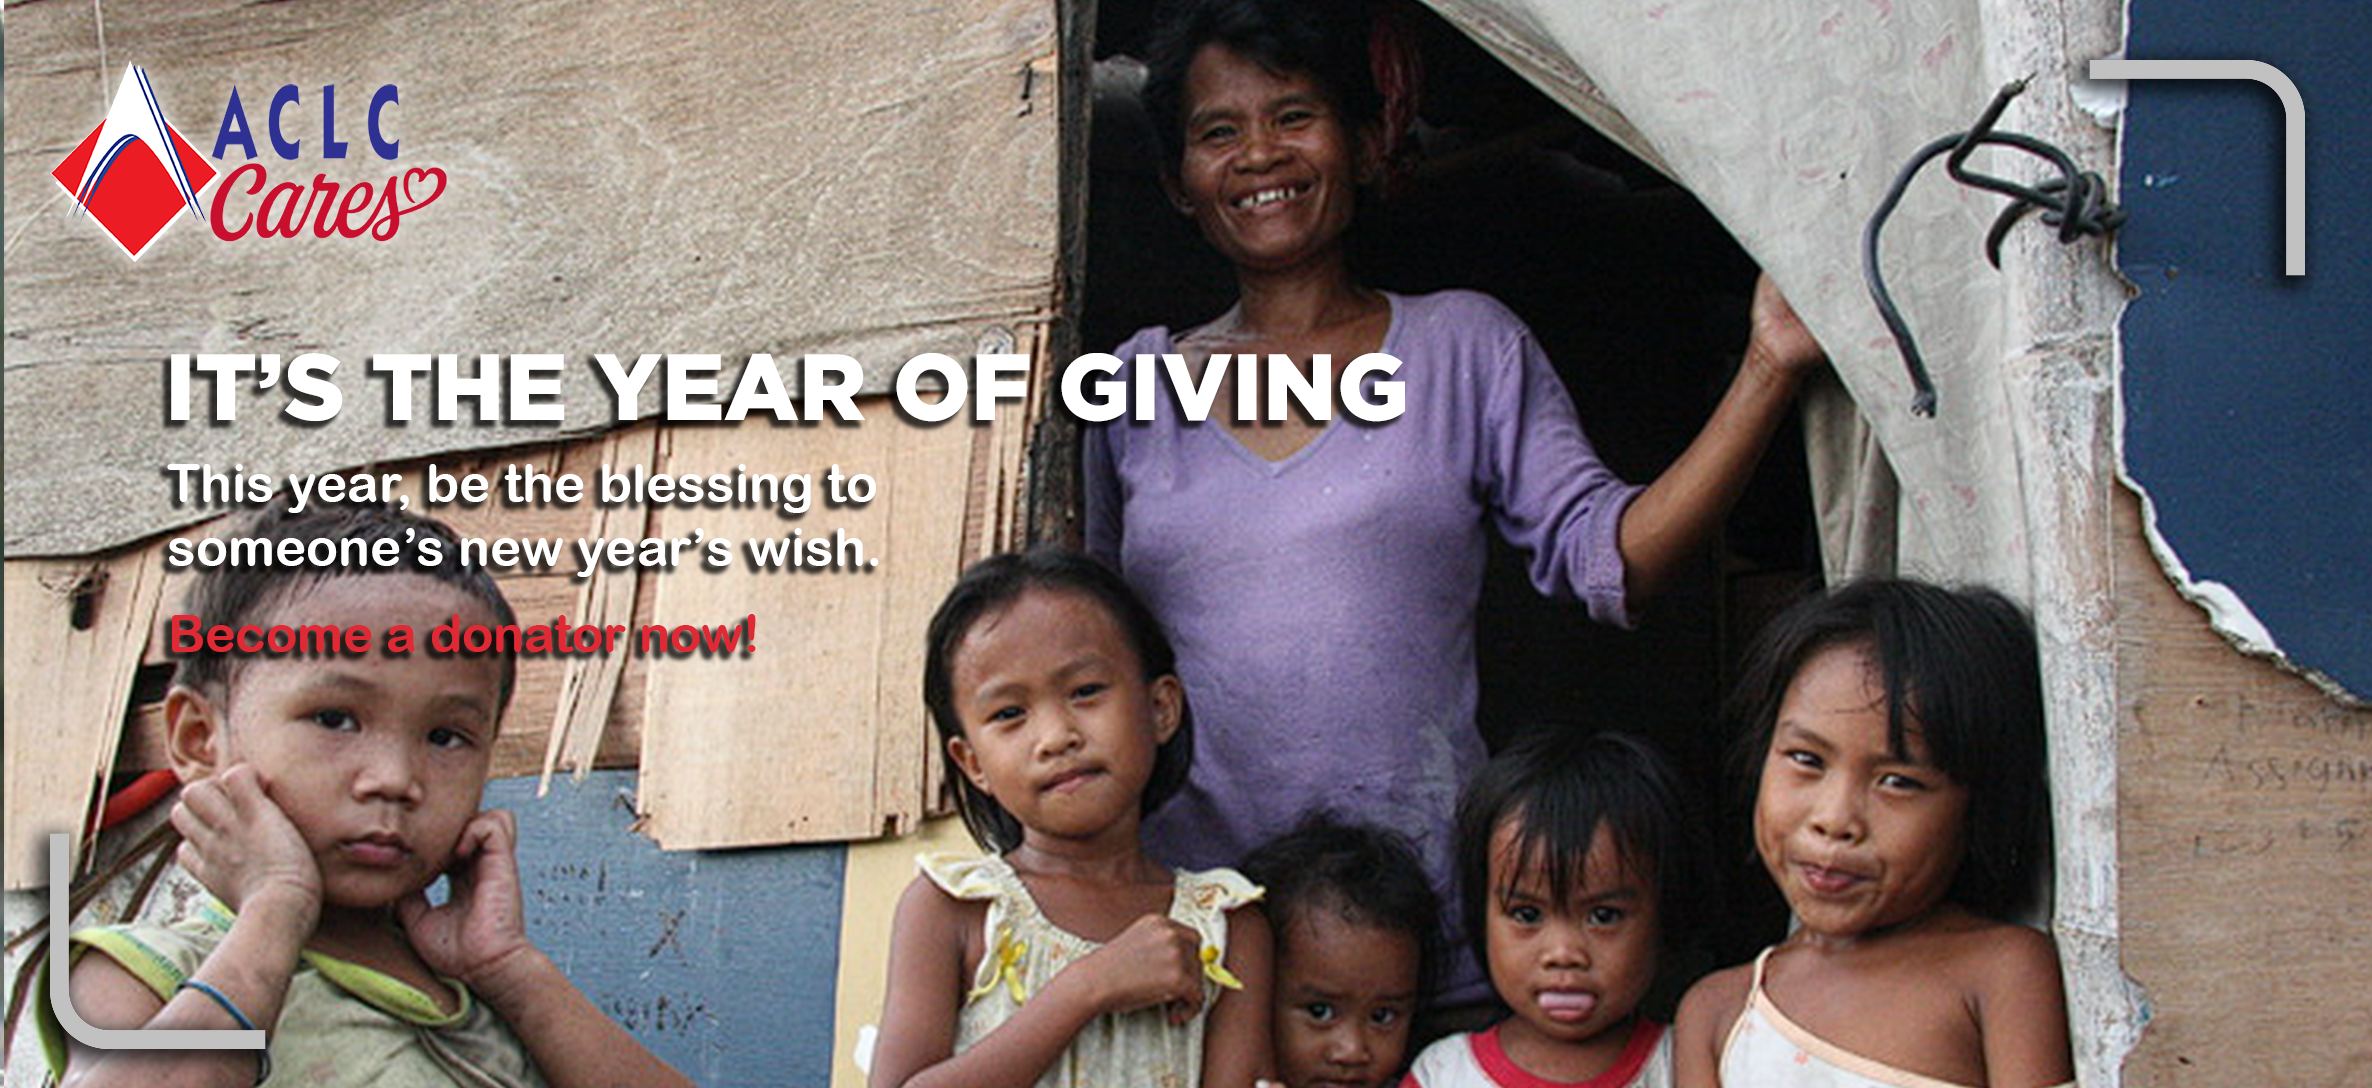
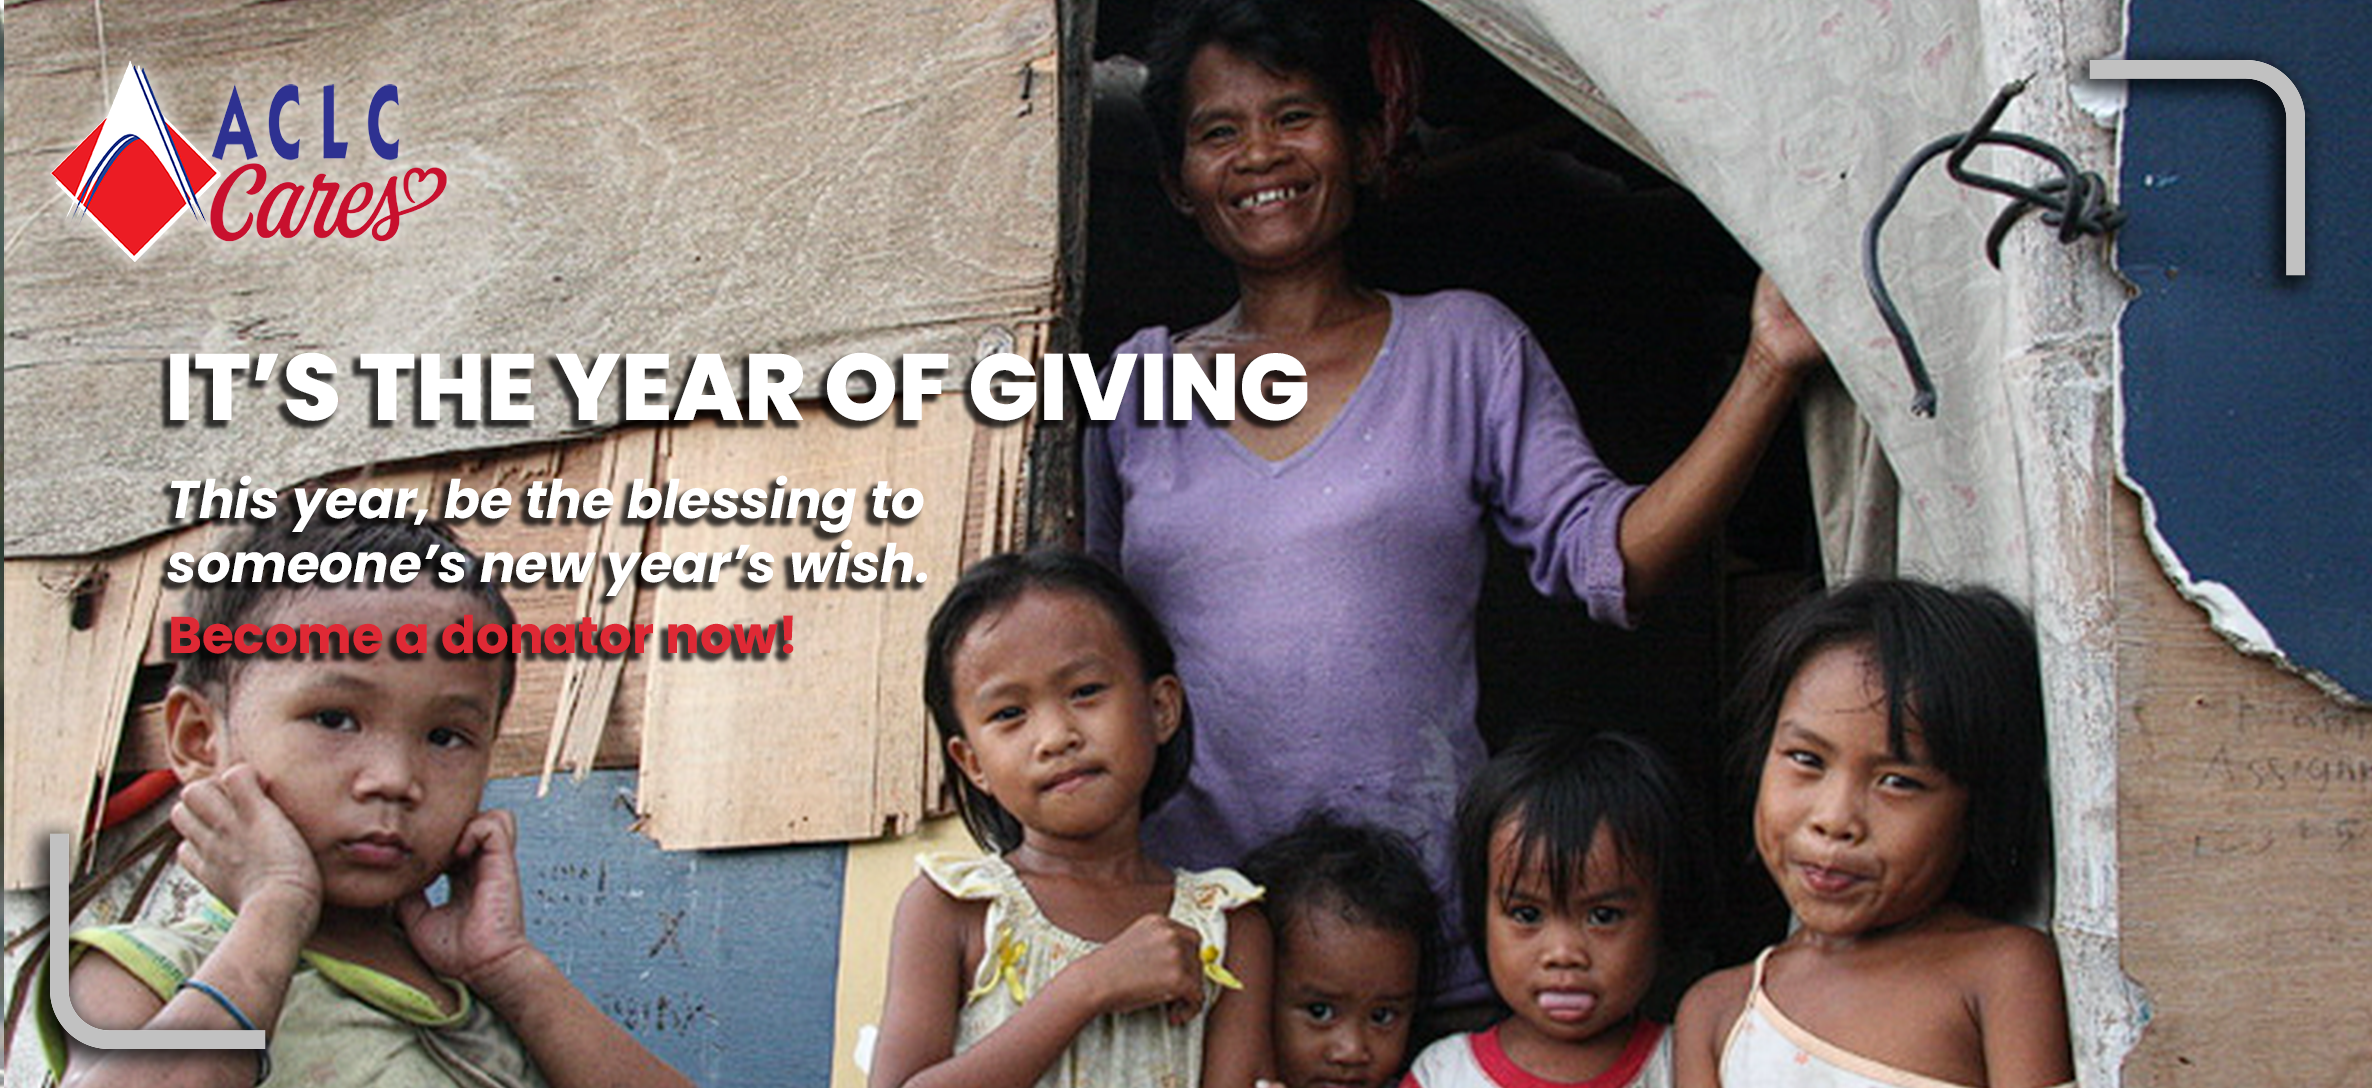
client

Changed region(s): [[0.0624, 0.3125, 0.5927, 0.625]]

diff --git a/client/src/pages/About/About.jsx b/client/src/pages/About/About.jsx
@@ -66,7 +66,7 @@ return (
                     <div className="desc">
                         <h6>Ramel Jay O. Cuña</h6>
                         <p>Project Lead Developer</p>
-                        <p>rameljay15@gmail.com</p>
+                        <p className='teammail-color'><a href="mailto:rameljay15@gmail.com">rameljay15@gmail.com</a></p>
                     </div>
                 </div>
 
@@ -77,7 +77,7 @@ return (
                     <div className="desc">
                         <h6>Andrei Christian N. Zabala</h6>
                         <p>Project Lead Developer</p>
-                        <p>andreichristianzabala@gmail.com</p>
+                        <p className='teammail-color'><a href="mailto:andreichristianzabala@gmail.com">andreichristianzabala@gmail.com</a></p>
                     </div>
                 </div>
 
@@ -88,7 +88,7 @@ return (
                     <div className="desc">
                         <h6>Bjorn Farinelli L. Orgen</h6>
                         <p>Developer</p>
-                        <p>bjornfarinelli@gmail.com</p>
+                        <p className='teammail-color'><a href="mailto:bjornfarinelli@gmail.com">bjornfarinelli@gmail.com</a></p>
                     </div>
                 </div>
 
@@ -99,7 +99,7 @@ return (
                     <div className="desc">
                         <h6>Kim L. Magbulugtong</h6>
                         <p>Research Leader</p>
-                        <p>kimpulga21@gmail.com</p>
+                        <p className='teammail-color'><a href="mailto:kimpulga21@gmail.com">kimpulga21@gmail.com</a></p>
                     </div>
                 </div>
 
@@ -110,7 +110,7 @@ return (
                     <div className="desc">
                         <h6>Melhebbford A. Bareja</h6>
                         <p>Researcher</p>
-                        <p>barejamel1@gmail.com</p>
+                        <p className='teammail-color'><a href="mailto:barejamel1@gmail.com">barejamel1@gmail.com</a></p>
                     </div>
                 </div>
             </div>

diff --git a/client/src/pages/About/About.css b/client/src/pages/About/About.css
@@ -167,7 +167,6 @@
     padding: 15px;
     text-align: center;
     font-size: 11px;
-
 }
 
 .gallery::after {
@@ -176,11 +175,60 @@
     display: table;
 }
 
+.teammail-color a{
+    font-size: 11px;
+    color: rgb(255, 255, 255);
+    text-decoration: none;
+    font-family: "Poppins-Regular";
+}
+
+.teammail-color a:hover {
+    color: #ffffff;
+    text-decoration: underline;
+}
+
+
 @media screen and (max-width: 600px ){
+    .about-container{
+        display: flex;
+        flex-direction: column;
+        justify-content: space-evenly;
+    }
+
+    .mission{
+        width: 300px;
+        height: 400px;
+        margin-left: auto;
+        margin-right: auto;
+        margin-bottom: 20px;
+    }
+
+    .vision {
+        width: 300px;
+        height: 400px;
+        margin-left: auto;
+        margin-right: auto;
+        margin-bottom: 20px;
+    }
+
+    .values {
+        width: 300px;
+        height: 400px;
+        margin-left: auto;
+        margin-right: auto;
+        margin-bottom: 20px;
+    }
+
+    .about-gallery-container{
+        display: flex;
+        flex-direction: column;
+        justify-content: space-evenly;
+    }
+    
     .about-header {
         font-family: "Poppins-Bold";
         text-align: center;
-        font-size: 25px;
+        font-size: 30px;
     }
  
     .team-header-container{

diff --git a/client/src/pages/Contacts/Contacts.css b/client/src/pages/Contacts/Contacts.css
@@ -82,6 +82,11 @@
     font-family: "Poppins-Regular";
 }
 
+.email-color a:hover {
+    color: #ffffff;
+    text-decoration: underline;
+}
+
 .number-color {
     font-size: 20px;
     color: rgb(255, 255, 255);
@@ -96,4 +101,34 @@
     display: flex;
     justify-content: center;
     margin-bottom: 50px; 
+}
+
+@media screen and (max-width: 600px ){
+    .contacts-container{
+        display: flex;
+        flex-direction: column;
+        justify-content: space-evenly;
+    }
+
+    .contacts-header {
+        font-family: "Poppins-Bold";
+        text-align: center;
+        font-size: 30px;
+    }
+
+    .inquiries {
+        margin-left: auto;
+        margin-right: auto;
+        margin-bottom: 20px;
+        width: 300px;
+        height: 200px;
+    }
+
+    .location {
+        margin-left: auto;
+        margin-right: auto;
+        margin-bottom: 20px;
+        width: 300px;
+        height: 200px;
+    }
 }

diff --git a/client/src/pages/Home/Home.jsx b/client/src/pages/Home/Home.jsx
@@ -4,9 +4,9 @@ import "./Home.css";
 import { useState, useEffect, useRef } from 'react';
 import image1 from "./image/carousel1.png"
 import image2 from "./image/carousel2.jpg"
-import image3 from "./image/carousel3.jpg"
+import image3 from "./image/carousel3.png"
 import image4 from "./image/carousel4.jpg"
-import image5 from "./image/carousel5.png"
+import image5 from "./image/carousel5.jpg"
 import Footer from "../Footer/footer"
 import AOS from 'aos';
 import 'aos/dist/aos.css';

diff --git a/client/src/pages/Home/Home.css b/client/src/pages/Home/Home.css
@@ -285,6 +285,10 @@
     width: 100%;
 }
 
+.img-header {
+    font-family: "Poppins-Semibold";
+    font-size: 40px;
+}
 .img-container{
     margin: 50px; 
     display: flex;
